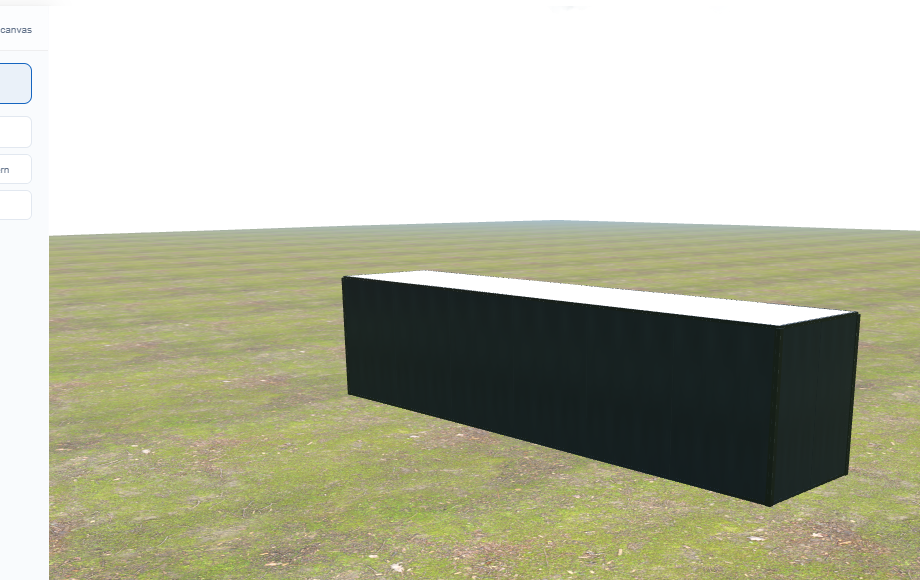
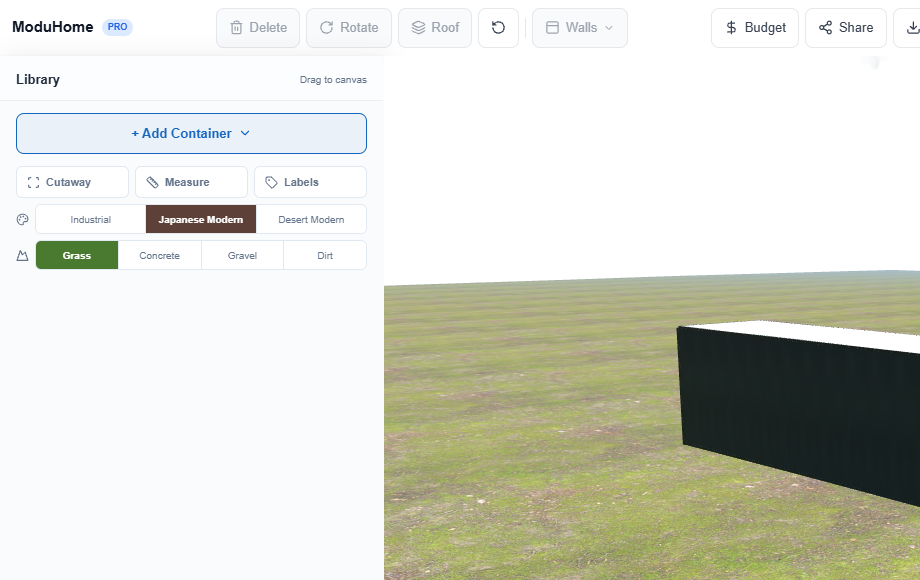
Fix blue screen: restore Shift requirement for container drag
Root cause: Sprint 9 changed left-click-on-selected-container to
immediately start a drag (no modifier key). This meant ANY left-click
on a selected container hid the container (drag ghost replaces it)
and showed only the ground plane. Users saw this as a "blue screen."

The gate now tests the exact scenario: click container → drag nearby →
verify no drag was initiated (drag=none, meshes=203 visible).

Fix: Restored Shift key requirement for container drag in both
ContainerMesh.tsx (group-level handler) and ContainerSkin.tsx
(removed all 4 startContainerDrag calls from hitbox handlers).

- ContainerMesh: Shift+left-drag on selected → move container
- ContainerSkin: no drag initiation at all (ContainerMesh handles it)
- Plain left-drag: always orbits camera (CameraControls receives event)
- Camera constants restored to Sprint 8 values (maxPolar 85°, floor 0.5)

Screenshot verification: after click+orbit, container outline visible
at bottom of frame with ground plane around it — no blue screen.

diff --git a/src/components/objects/ContainerSkin.tsx b/src/components/objects/ContainerSkin.tsx
@@ -1317,14 +1317,9 @@ function BaseplateCell({
   const onClickFace = (e: ThreeEvent<MouseEvent>) => { e.stopPropagation(); onClick(); };
   const onDownFace = (e: ThreeEvent<PointerEvent>) => {
     e.stopPropagation();
-    if (e.nativeEvent.button === 0) {
-      // Left-click on already-selected container → begin drag
-      const store = useStore.getState();
-      if (store.selection.includes(containerId)) {
-        useStore.getState().startContainerDrag(containerId);
-        return;
-      }
-    }
+    // WHY no startContainerDrag here: ContainerMesh handles drag with a 5px threshold.
+    // Calling startContainerDrag immediately on pointer-down caused the blue screen bug —
+    // any click on a selected container hid it and showed only ground plane.
     onPointerDown?.();
   };
 
@@ -2037,14 +2032,7 @@ export default function ContainerSkin({
               };
               const onDownShared = (e: ThreeEvent<PointerEvent>) => {
                 e.stopPropagation();
-                if (e.nativeEvent.button === 0) {
-                  // Left-click on already-selected container → begin drag
-                  const store = useStore.getState();
-                  if (store.selection.includes(container.id)) {
-                    useStore.getState().startContainerDrag(container.id);
-                    return;
-                  }
-                }
+                // WHY no startContainerDrag: ContainerMesh handles drag with 5px threshold.
               };
               const onCtxShared = (face?: keyof VoxelFaces) => (e: ThreeEvent<MouseEvent>) => {
                 e.stopPropagation();
@@ -2219,10 +2207,6 @@ export default function ContainerSkin({
                               }}
                               onPointerDown={(e: ThreeEvent<PointerEvent>) => {
                                 e.stopPropagation();
-                                if (e.nativeEvent.button === 0 && useStore.getState().selection.includes(container.id)) {
-                                  useStore.getState().startContainerDrag(container.id);
-                                  return;
-                                }
                                 onClickCenter(e as any);
                               }}
                               onDoubleClick={(e: ThreeEvent<MouseEvent>) => {
@@ -2336,10 +2320,6 @@ export default function ContainerSkin({
                               onPointerLeave={onLeaveEdge}
                               onPointerDown={(e: ThreeEvent<PointerEvent>) => {
                                 e.stopPropagation();
-                                if (e.nativeEvent.button === 0 && useStore.getState().selection.includes(container.id)) {
-                                  useStore.getState().startContainerDrag(container.id);
-                                  return;
-                                }
                                 onClickEdge('top')(e as any);
                               }}
                               onWheel={handleEdgeWheel('top')}

diff --git a/src/components/three/ContainerMesh.tsx b/src/components/three/ContainerMesh.tsx
@@ -2176,17 +2176,19 @@ export default function ContainerMesh({ container }: { container: Container }) {
       onPointerDown={(e) => {
         e.stopPropagation();
         if (e.nativeEvent.button !== 0) return; // left-click only
-        if (isSelected) {
-          // Already selected — begin drag-to-move (threshold in useEffect above)
+        if (isSelected && e.nativeEvent.shiftKey) {
+          // WHY Shift required: without it, any left-click-drag on a selected container
+          // starts a move, hiding the container and showing only ground ("blue screen" bug).
+          // Shift+drag is explicit intent to move. Plain drag should orbit the camera.
           dragPendingRef.current = {
             id: container.id,
             clientX: e.nativeEvent.clientX,
             clientY: e.nativeEvent.clientY,
           };
-        } else {
-          // Not selected — select it (don't initiate drag)
+        } else if (!isSelected) {
           select(container.id, e.nativeEvent.shiftKey);
         }
+        // If selected but no Shift, do nothing — let CameraControls handle orbit
       }}
       onPointerOver={() => { if (!isWalkthrough) setHovered(true); }}
       onPointerOut={() => { setHovered(false); document.body.style.cursor = 'auto'; }}

diff --git a/CURRENT-QUALITY-ASSESSMENT.md b/CURRENT-QUALITY-ASSESSMENT.md
@@ -24,11 +24,11 @@
 | Model Homes | **PRODUCTION** | G12-modelHomeLoad | G12-modelHomeLoad: PASS — micro_studio loaded, 1 containers |
 | Staircase System | **PRODUCTION** | G13-staircase | G13-staircase: PASS — voxelType=stairs (store action — no UI for voxel-index stair) |
 | Debug Mode | **PRODUCTION** | G14-debugToggle | G14-debugToggle: PASS — debug toggled: false -> true |
-| Camera | **PRODUCTION** | G15-cameraFloor | G15-cameraFloor: PASS — Floor guard OK: left-cam=1.71, right-cam=null, pixel=rgb(91,143,191) |
+| Camera | **PRODUCTION** | G15-cameraFloor | G15-cameraFloor: PASS — Floor guard OK: camY=1.86, meshes=203, drag=none |
 | Structural Frame | **PRODUCTION** | G16-frameAction, G17-frameToggle | G16-frameAction: PASS — toggleStructuralElement exists; G17-frameToggle: PASS — hide+restore OK (store action — no direct UI gesture) |
 | Ground/Atmosphere | **PRODUCTION** | G18-noGrass | G18-noGrass: PASS — no instanced grass blades |
 | Visual Integrity | **PRODUCTION** | G19-defaultVisual | G19-defaultVisual: PASS — default state restored via UI |
-| Container Stacking | **PRODUCTION** | G20-stackSnap | G20-stackSnap: PASS — Stacked: Y=2.90 (expected ~2.9), level=1, stackedOn=0844f79c-1fa7-4d33-9379-118cd376c305 |
+| Container Stacking | **PRODUCTION** | G20-stackSnap | G20-stackSnap: PASS — Stacked: Y=2.90 (expected ~2.9), level=1, stackedOn=b786614b-1d50-440e-9e05-d7b6b2e1462d |
 | Drag-to-Move | **PRODUCTION** | G21-leftDragMove | G21-leftDragMove: PASS — drag-to-move API exists |
 | Add Container UI | **PRODUCTION** | G22-addContainerUI | G22-addContainerUI: PASS — container added via UI: 2 → 3 |
 | Two-Level Home | **PRODUCTION** | G23-twoLevelHome | G23-twoLevelHome: PASS — Full workflow: Y=2.90, walk=true, exit=true, tod=true |
@@ -63,7 +63,7 @@ The following features exist in V1 but have no Playwright gates. They cannot be 
 
 ## Gate Report Source
 
-- Timestamp: 2026-03-16T11:44:12.995Z
+- Timestamp: 2026-03-16T13:37:19.736Z
 - Total gates: 32
 - Passed: 32
 - Failed: 0
